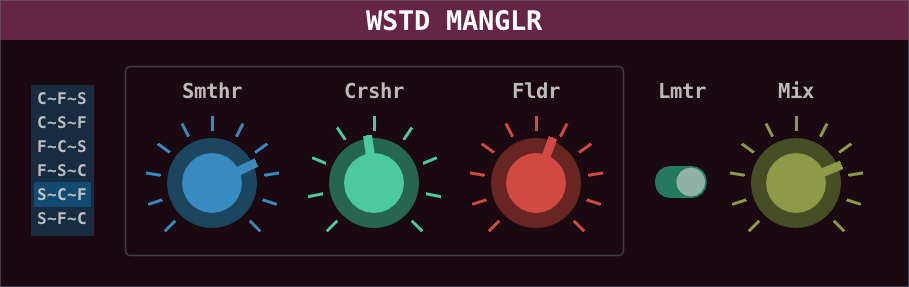
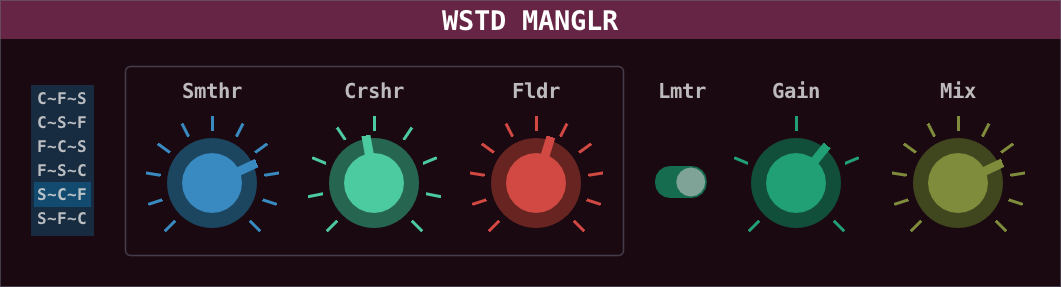
add gain control; use parameter enum; bump version

diff --git a/override/HeavyDPF_WSTD_MANGLR_UI.cpp b/override/HeavyDPF_WSTD_MANGLR_UI.cpp
@@ -10,10 +10,21 @@
 START_NAMESPACE_DISTRHO
 
 // --------------------------------------------------------------------------------------------------------------------
+enum HeavyParams {
+    CRSHR,
+    FLDR,
+    GAIN,
+    LMTR,
+    MIX,
+    SMTHR,
+    SQNC,
+};
+
 class ImGuiPluginUI : public UI
 {
     int fcrshr = 512;
     float ffldr = 1.0f;
+    float fgain = 0.0f;
     bool flmtr = 1.0f != 0.0f;
     float fmix = 50.0f;
     float fsmthr = 1.0f;
@@ -62,22 +73,25 @@ protected:
     void parameterChanged(uint32_t index, float value) override
     {
         switch (index) {
-            case 0:
+            case CRSHR:
                 fcrshr = value;
                 break;
-            case 1:
+            case FLDR:
                 ffldr = value;
                 break;
-            case 2:
+            case GAIN:
+                fgain = value;
+                break;
+            case LMTR:
                 flmtr = value != 0.0f;
                 break;
-            case 3:
+            case MIX:
                 fmix = value;
                 break;
-            case 4:
+            case SMTHR:
                 fsmthr = value;
                 break;
-            case 5:
+            case SQNC:
                 fsqnc = value;
                 break;
 
@@ -104,11 +118,11 @@ protected:
         {
             if (ImGui::IsItemActivated())
             {
-                editParameter(0, true);
+                editParameter(CRSHR, true);
                 if (ImGui::IsMouseDoubleClicked(0))
                     fcrshr = 512;
             }
-            setParameterValue(0, fcrshr);
+            setParameterValue(CRSHR, fcrshr);
         }
         ImGui::PopStyleColor(2);
         ImGui::SameLine();
@@ -128,11 +142,11 @@ protected:
         {
             if (ImGui::IsItemActivated())
             {
-                editParameter(1, true);
+                editParameter(FLDR, true);
                 if (ImGui::IsMouseDoubleClicked(0))
                     ffldr = 1.0f;
             }
-            setParameterValue(1, ffldr);
+            setParameterValue(FLDR, ffldr);
         }
         ImGui::PopStyleColor(2);
         ImGui::SameLine();
@@ -152,11 +166,11 @@ protected:
         {
             if (ImGui::IsItemActivated())
             {
-                editParameter(4, true);
+                editParameter(SMTHR, true);
                 if (ImGui::IsMouseDoubleClicked(0))
                     fsmthr = 1.0f;
             }
-            setParameterValue(4, fsmthr);
+            setParameterValue(SMTHR, fsmthr);
         }
         ImGui::SameLine();
     }
@@ -186,13 +200,15 @@ protected:
         ImFont* titleBarFont = io.Fonts->Fonts[2];
         ImFont* mediumFont = io.Fonts->Fonts[3];
 
-        auto intense = 20.0f / 5.0f;
+        auto intense = (20.0f + (4.0f * fgain)) / 5.0f;
 
         auto SyncSw          = ColorBright(WhiteDr, intense);
         auto SyncGr          = ColorBright(Grey, intense);
         auto SyncGrHovered   = ColorBright(GreyBr, intense);
         auto SyncAct         = ColorBright(GreenDr, intense);
         auto SyncActHovered  = ColorBright(Green, intense);
+        auto GainActive      = ColorBright(Green, intense);
+        auto GainHovered     = ColorBright(GreenBr, intense);
         auto MixActive       = ColorMix(Green, Yellow, intense, fmix);
         auto MixHovered      = ColorMix(GreenBr, YellowBr, intense, fmix);
 
@@ -203,12 +219,14 @@ protected:
         auto crshstep = 8;
         auto elevstep = 0.1f;
         auto percstep = 1.0f;
+        auto dbstep   = 0.1f;
 
         if (io.KeyShift)
         {
             crshstep = 1;
             elevstep = 0.01f;
             percstep = 0.1f;
+            dbstep = 0.01f;
         }
 
         const char* sqnc_list[6] = {
@@ -249,8 +267,8 @@ protected:
                         if (ImGui::Selectable(sqnc_list[n], is_selected))
                         {
                             fsqnc = n;
-                            editParameter(5, true);
-                            setParameterValue(5, fsqnc);
+                            editParameter(SQNC, true);
+                            setParameterValue(SQNC, fsqnc);
                         }
                         if (is_selected)
                             ImGui::SetItemDefaultFocus();
@@ -340,11 +358,31 @@ protected:
                     {
                         if (ImGui::IsItemActivated())
                         {
-                            editParameter(2, true);
-                            setParameterValue(2, flmtr);
+                            editParameter(LMTR, true);
+                            setParameterValue(LMTR, flmtr);
                         }
                     }
                     ImGui::PopStyleColor(5);
+                }
+                ImGui::EndGroup();
+                ImGui::SameLine();
+
+                ImGui::BeginGroup();
+                {
+                    ImGui::PushStyleColor(ImGuiCol_ButtonActive,    (ImVec4)GainActive);
+                    ImGui::PushStyleColor(ImGuiCol_ButtonHovered,   (ImVec4)GainHovered);
+                    if (ImGuiKnobs::Knob(
+                        "Gain", &fgain, -20.0f, 0.0f, dbstep, "%.2fdB", ImGuiKnobVariant_SteppedTick, hundred, ImGuiKnob_Flags, 5))
+                    {
+                        if (ImGui::IsItemActivated())
+                        {
+                            editParameter(GAIN, true);
+                            if (ImGui::IsMouseDoubleClicked(0))
+                                fgain = 0.0f;
+                        }
+                        setParameterValue(GAIN, fgain);
+                    }
+                    ImGui::PopStyleColor(2);
                 }
                 ImGui::EndGroup();
                 ImGui::SameLine();
@@ -356,11 +394,11 @@ protected:
                 {
                     if (ImGui::IsItemActivated())
                     {
-                        editParameter(3, true);
+                        editParameter(MIX, true);
                         if (ImGui::IsMouseDoubleClicked(0))
                             fmix = 50.0f;
                     }
-                    setParameterValue(3, fmix);
+                    setParameterValue(MIX, fmix);
                 }
                 ImGui::PopStyleColor(2);
             }
@@ -368,12 +406,13 @@ protected:
 
             if (ImGui::IsItemDeactivated())
             {
-                editParameter(0, false);
-                editParameter(1, false);
-                editParameter(2, false);
-                editParameter(3, false);
-                editParameter(4, false);
-                editParameter(5, false);
+                editParameter(CRSHR, false);
+                editParameter(FLDR, false);
+                editParameter(GAIN, false);
+                editParameter(LMTR, false);
+                editParameter(MIX, false);
+                editParameter(SMTHR, false);
+                editParameter(SQNC, false);
             }
         }
         ImGui::End();
